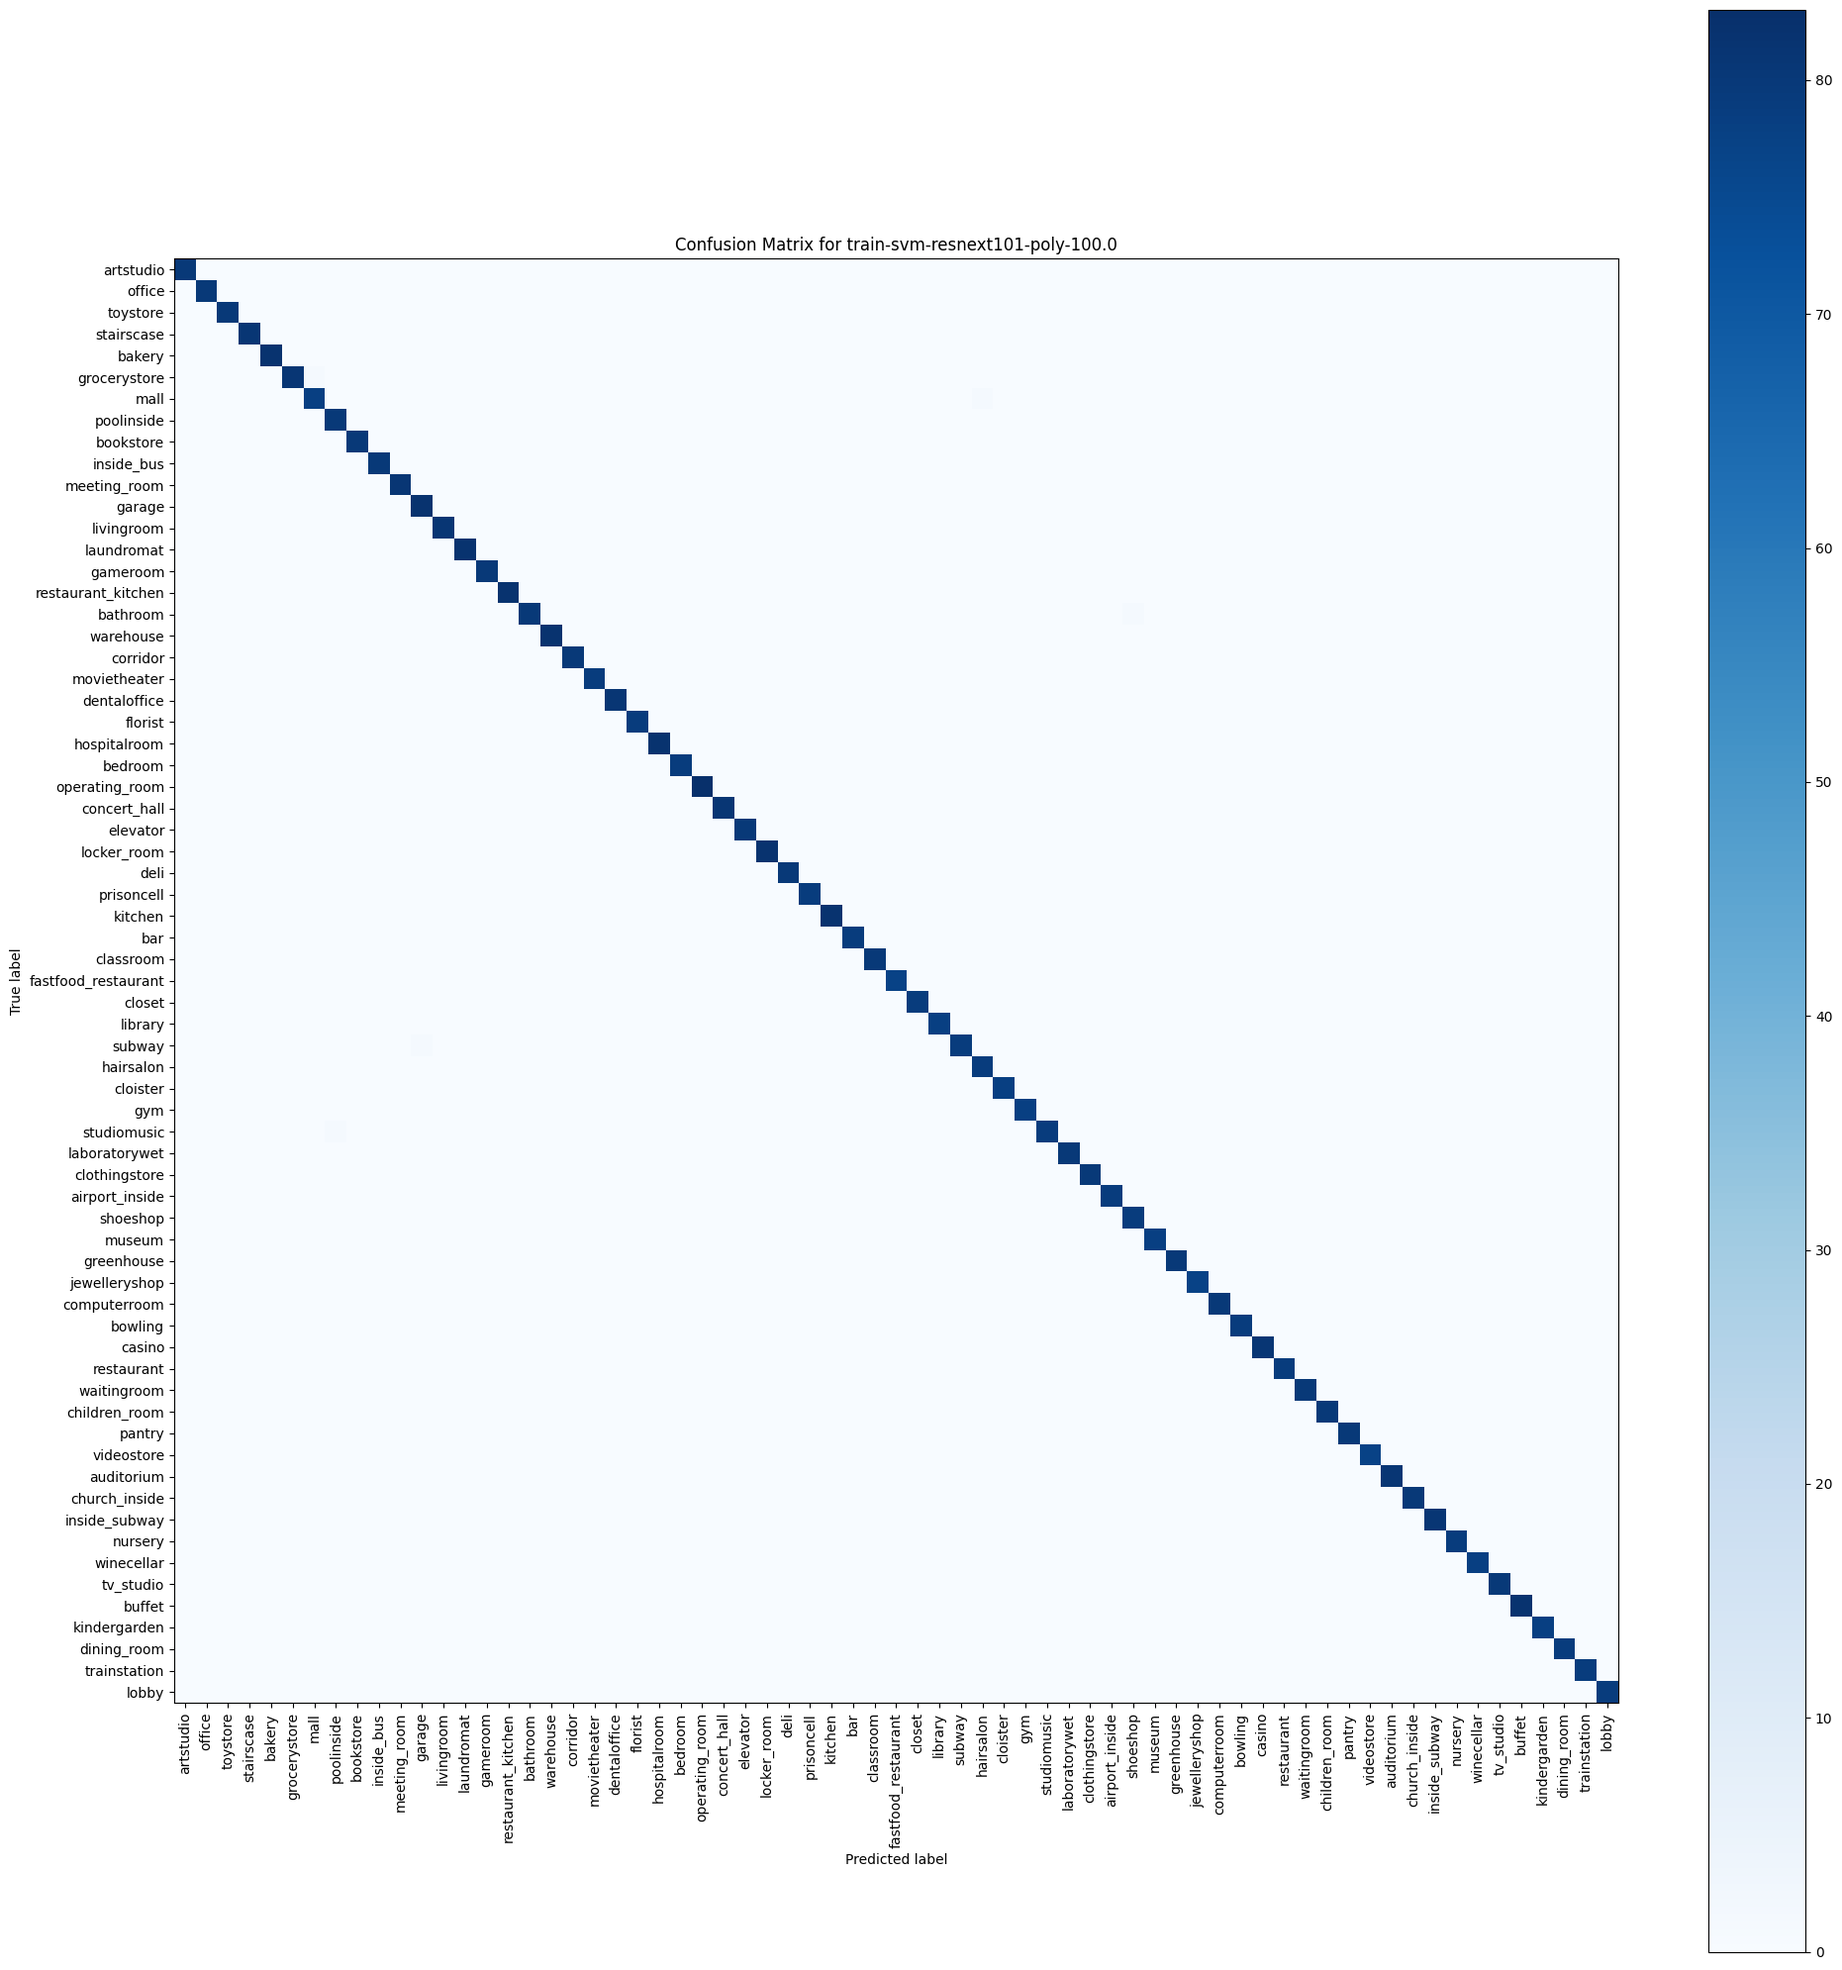
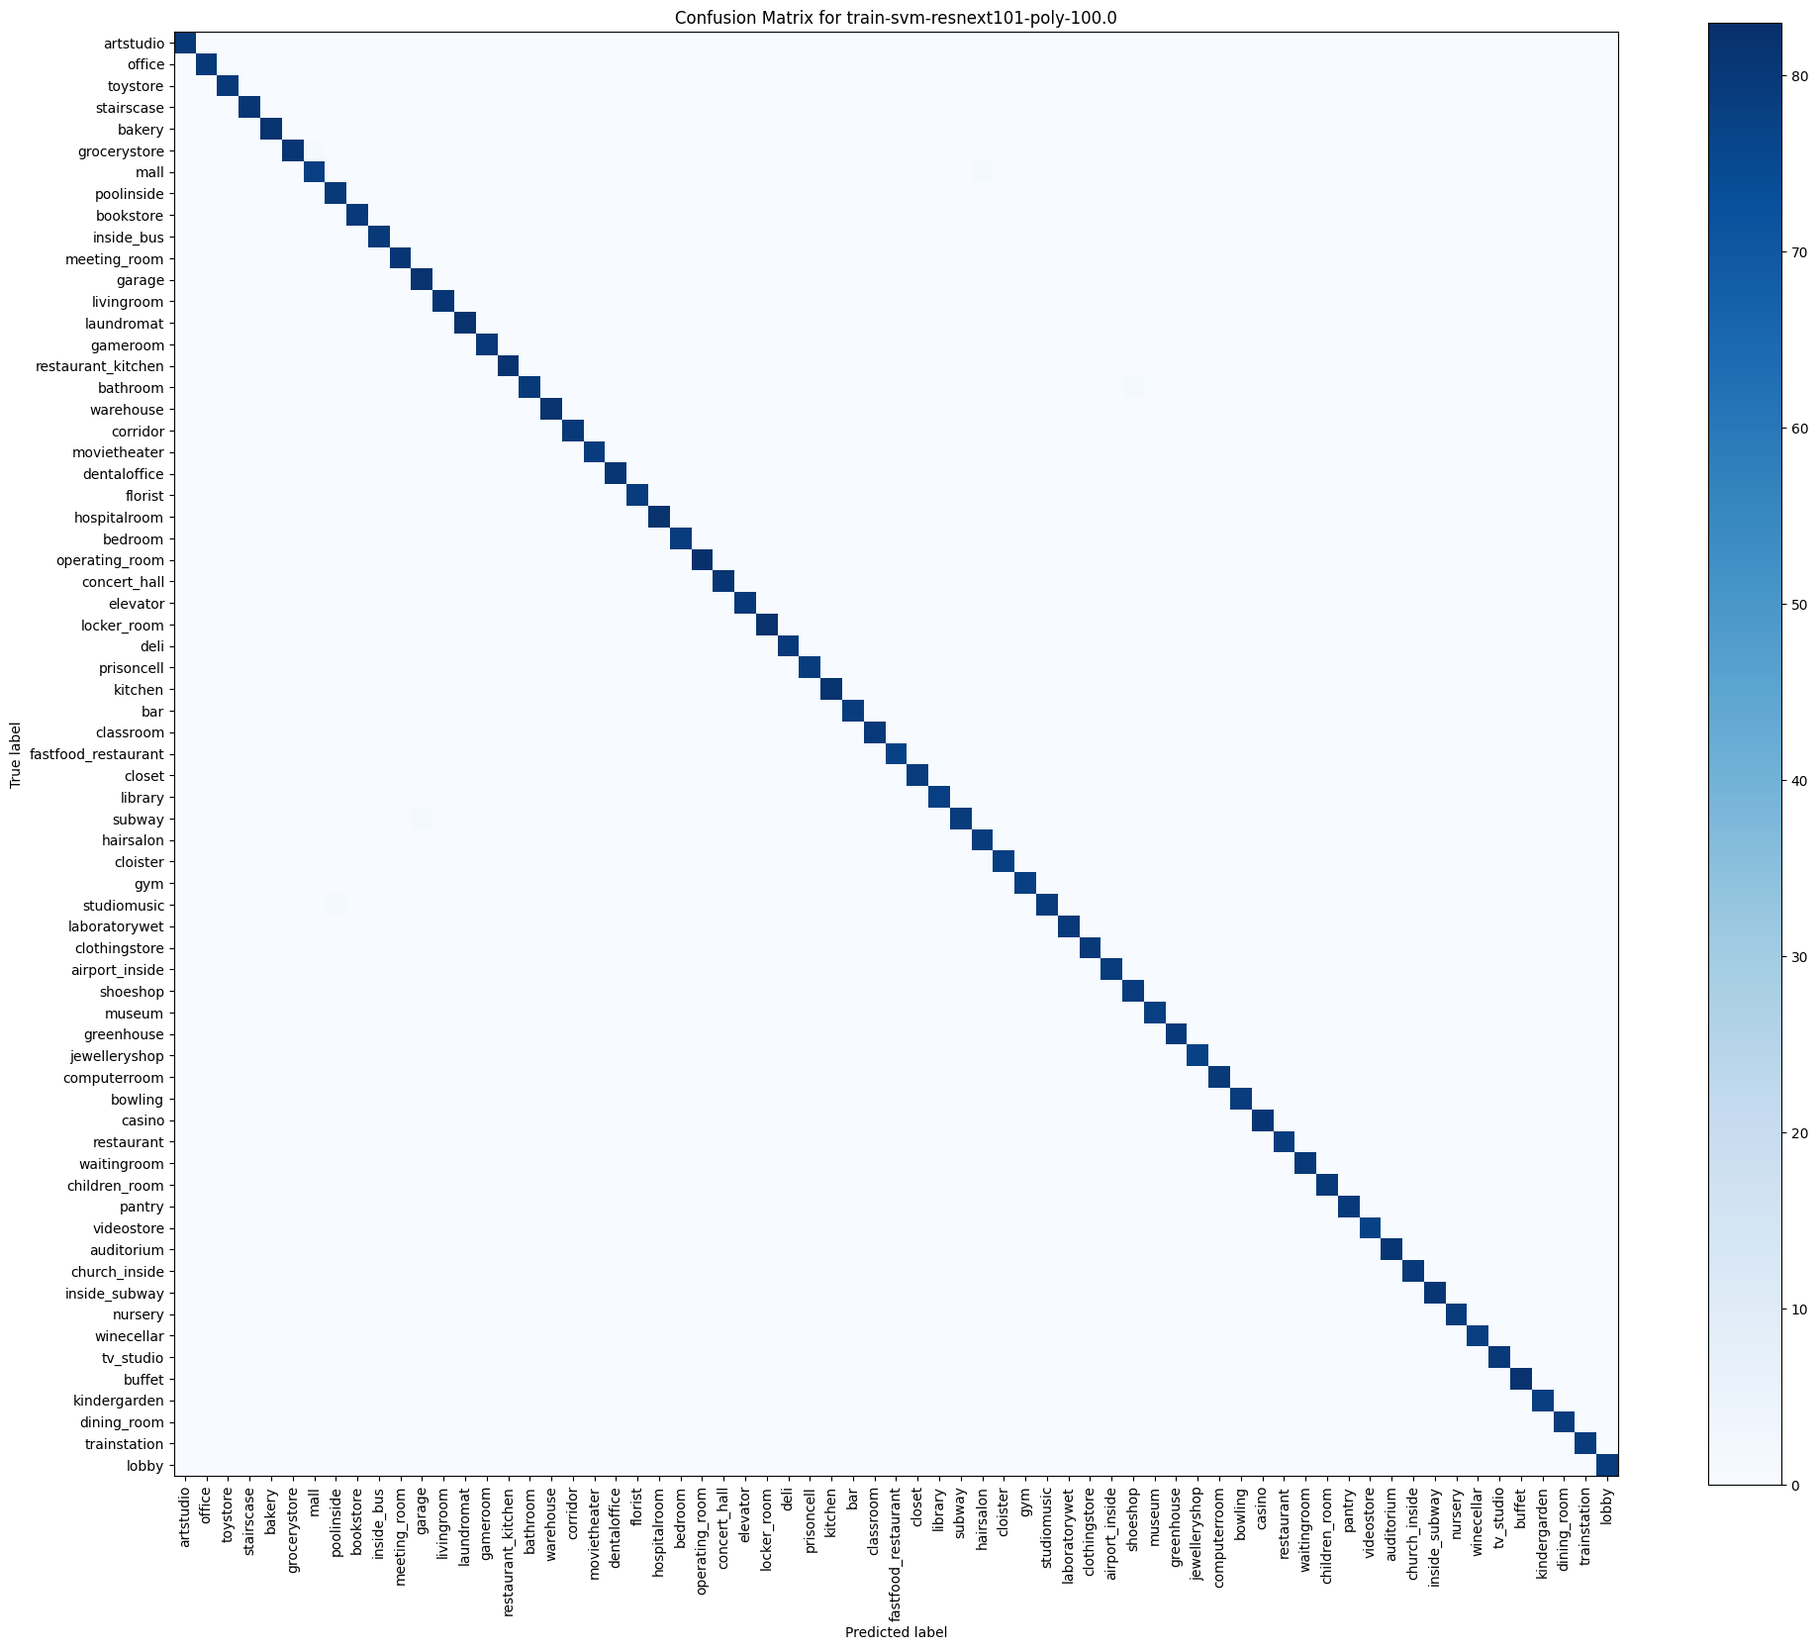
readme updated, new test-CM in SVM

diff --git a/utils.py b/utils.py
@@ -8,7 +8,8 @@ import pandas as pd
 from pathlib import Path
 import matplotlib.pyplot as plt
 from pylab import rcParams
-rcParams['figure.figsize'] = 20, 20
+# rcParams['figure.figsize'] = 20, 20
+rcParams['figure.figsize'] = 15, 15
 
 def results(x_true, x_pred, y_true, y_pred, classes, params, path=None, name=None):
 
@@ -73,6 +74,7 @@ def results(x_true, x_pred, y_true, y_pred, classes, params, path=None, name=Non
     # Confusion matrix
     cm = confusion_matrix(y_true, y_pred_)
     plot_confusion_matrix(cm, classes, path=path, name='test-'+name)
+    # plot_confusion_matrix(cm, list(range(len(classes))), path=path, name='test-'+name)
 
 def get_color(idx):
     if idx < 10:
@@ -128,7 +130,7 @@ def plot_confusion_matrix(cm, classes, path, name, normalize=False, title='Confu
 
     plt.imshow(cm, interpolation='nearest', cmap=cmap)
     plt.title(title)
-    plt.colorbar()
+    plt.colorbar(shrink=0.75)
     tick_marks = np.arange(len(classes))
     plt.xticks(tick_marks, classes, rotation=90)
     plt.yticks(tick_marks, classes)

diff --git a/README.md b/README.md
@@ -2,16 +2,35 @@
 
 **Group Members**: Desiree Garcia, Buddhi Ashan Mallika Kankanamalage, Heila Shahidi, Paul Woody, Mark Zimmerschied
 
-## Problem Statement
+## Abstract
+The importance of spatial recognition is an emerging field that heavily relies on machine learning and deep learning models. Examples such as catching human trafficking predators to reorganizing furniture without moving a single piece, are all applications to what spatial recognition can achieve. With an array of research studies conducting simulations using the MIT Indoor Scene (MITIS) dataset on different models and architectures, our research has homed in on the best five models that encapsulate the highest accuracies. Models will include Support Vector Machine (SVM), Naïve Bayes, Random Forest, and Neural Network (NN) from Gamage [3], as well as a Convolutional Neural Network (CNN) from Rahimzadeh et al. [2].
 
-MIT Indoor Scenes (MITIS)[1] is an image dataset with 67 indoor categories. We propose to compare five Artificial Intelligence (AI) methodologies to predict the indoor category of the MITIS images and evaluate the quality of predictions using different evaluation matrices. To improve prediction quality in traditional classification models, we propose to use Deep Learning Neural Network (DNN) based feature extractors. In this work, we present a comparison of different AI models based on their classification accuracies on MITIS dataset.
+## Introduction
+Scene classification is a subfield of classification where scenes from photographs are categorically classified based on the layout of objects within the scene. A tool such as scene classification can have an array of uses and benefits that could change the dynamic of how spatial area is used on the Internet of Things. Examples include, E-commerce sites utilizing scene classification to showcase specific items into a categorically relevant scene. As well as law enforcement tracking human traffickers using Google Map pictures taken from hotel rooms. 
 
-We propose following well known models to classify the MITIS dataset. 
+MITIS contains a total of 15,620 images categorized into 67 indoor categories with each category containing at least 100 images. Other noteworthy datasets are Places205 with 205 scene categories and 2.5 millions images, and Places365-Standard with 365 scene categories and 1.8 million images.
+
+## Purpose
+Objective of this work is to study state-of-the-art algorithms which can be used to classify the MITIS dataset. We chose five models with highest classification accuracies where the training and testing codes were publicly available. In this work we present a comparison of the classification models using different evaluation matrices. 
+
+## Methodology
+The MITIS dataset consists of 5360 train images and 1340 test images. We use the same split as published in [1]. Following are the five models used in this study.
+
 * Convolutional Neural Network (CNN)[2]
 * Support Vector Machine (SVM)[3]
 * Artificial Neural Network (ANN) [3]
 * Random Forest (RF)[3]
 * Naive Bayes[3]
+
+Our evaluation measures the quality of the classification using different matrices.
+
+## Results
+
+## Summary
+* Best model accuracy was Neural Network
+* Best model F1-score was Support Vector Machine
+* Fastest model to train is Naive Bayes
+
 
 ## How to Run the Models
 - Download MITIS dataset from <a href="https://www.kaggle.com/datasets/itsahmad/indoor-scenes-cvpr-2019">here</a>. Unzip the downloaded file and locate it outside master directory. 
